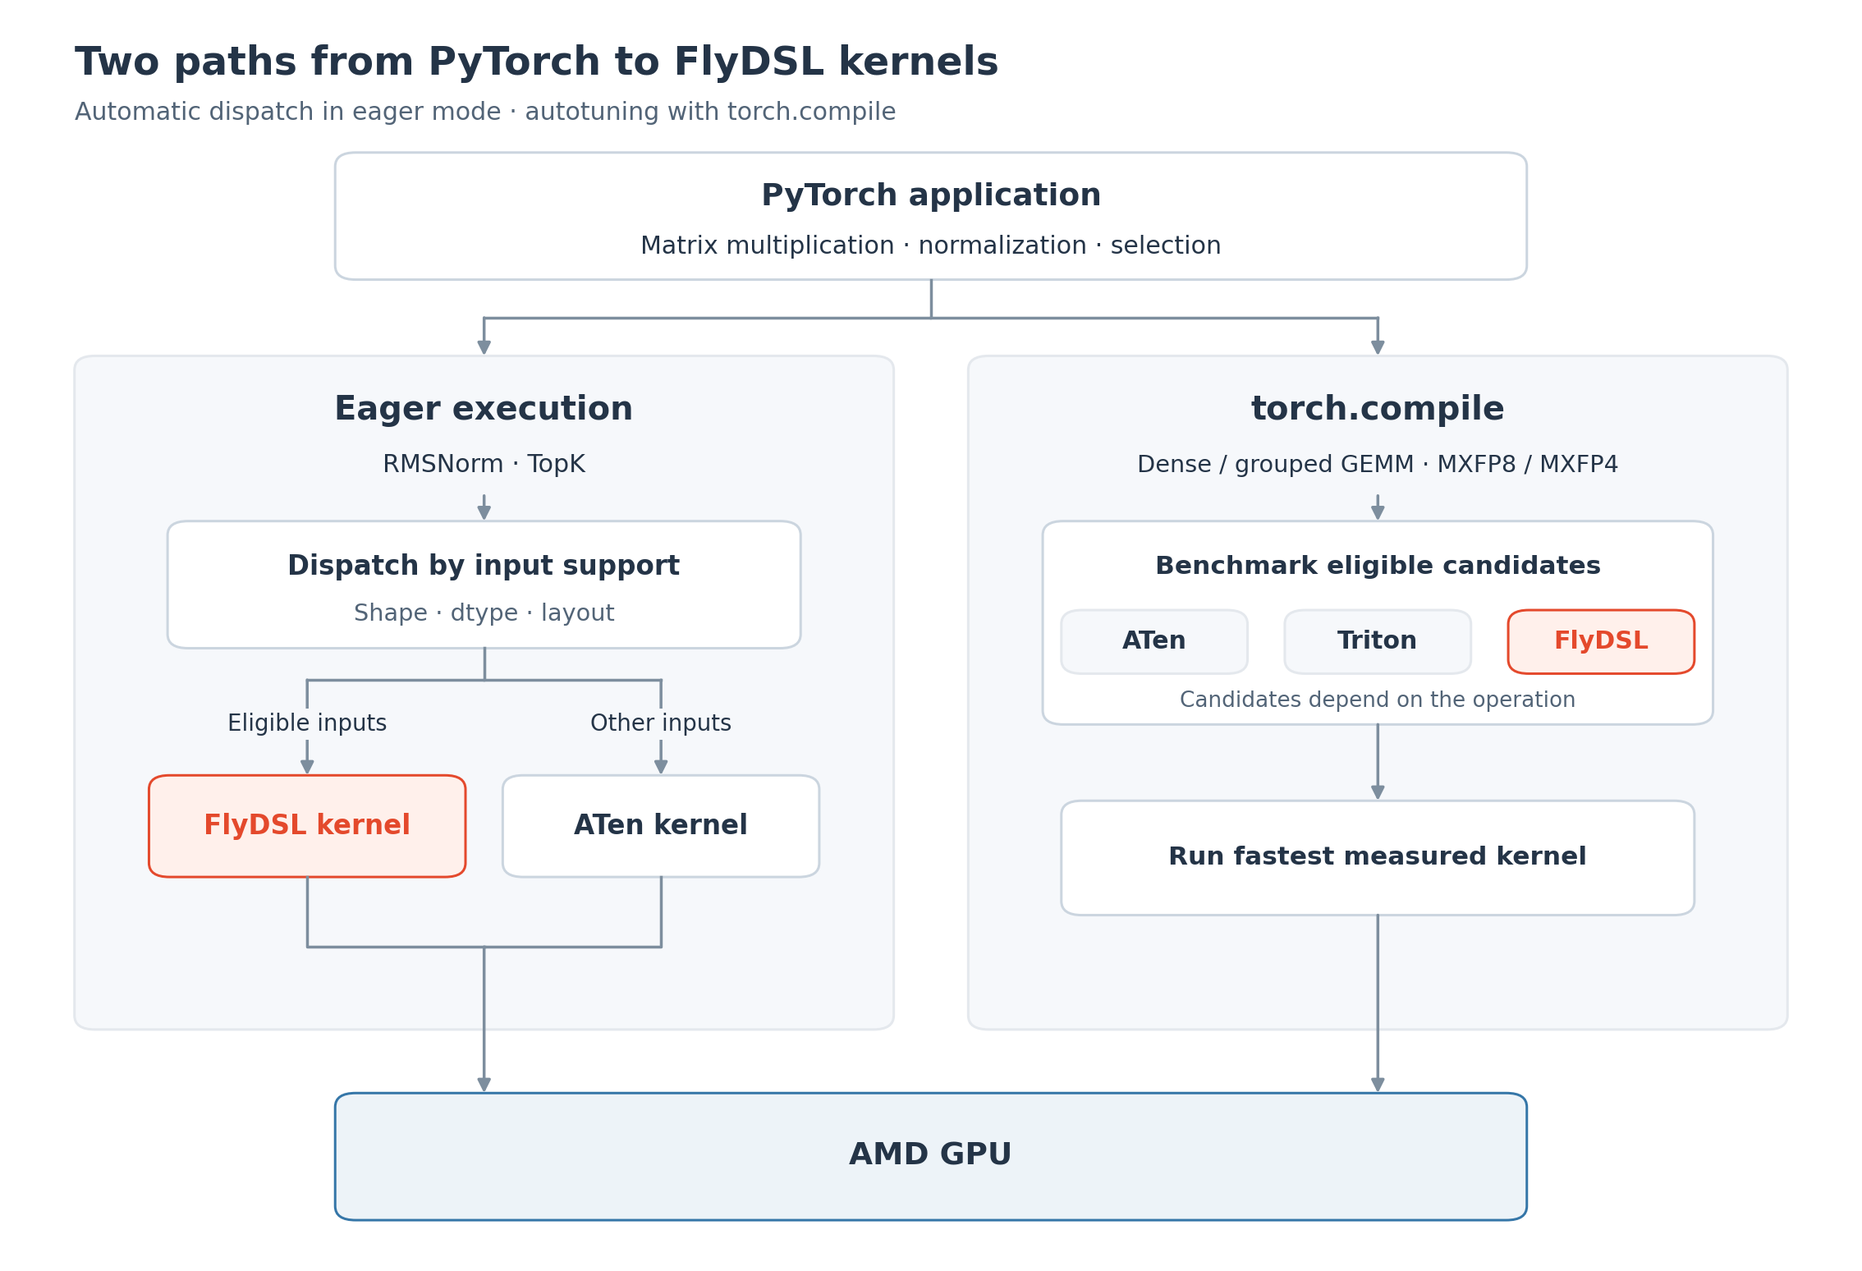
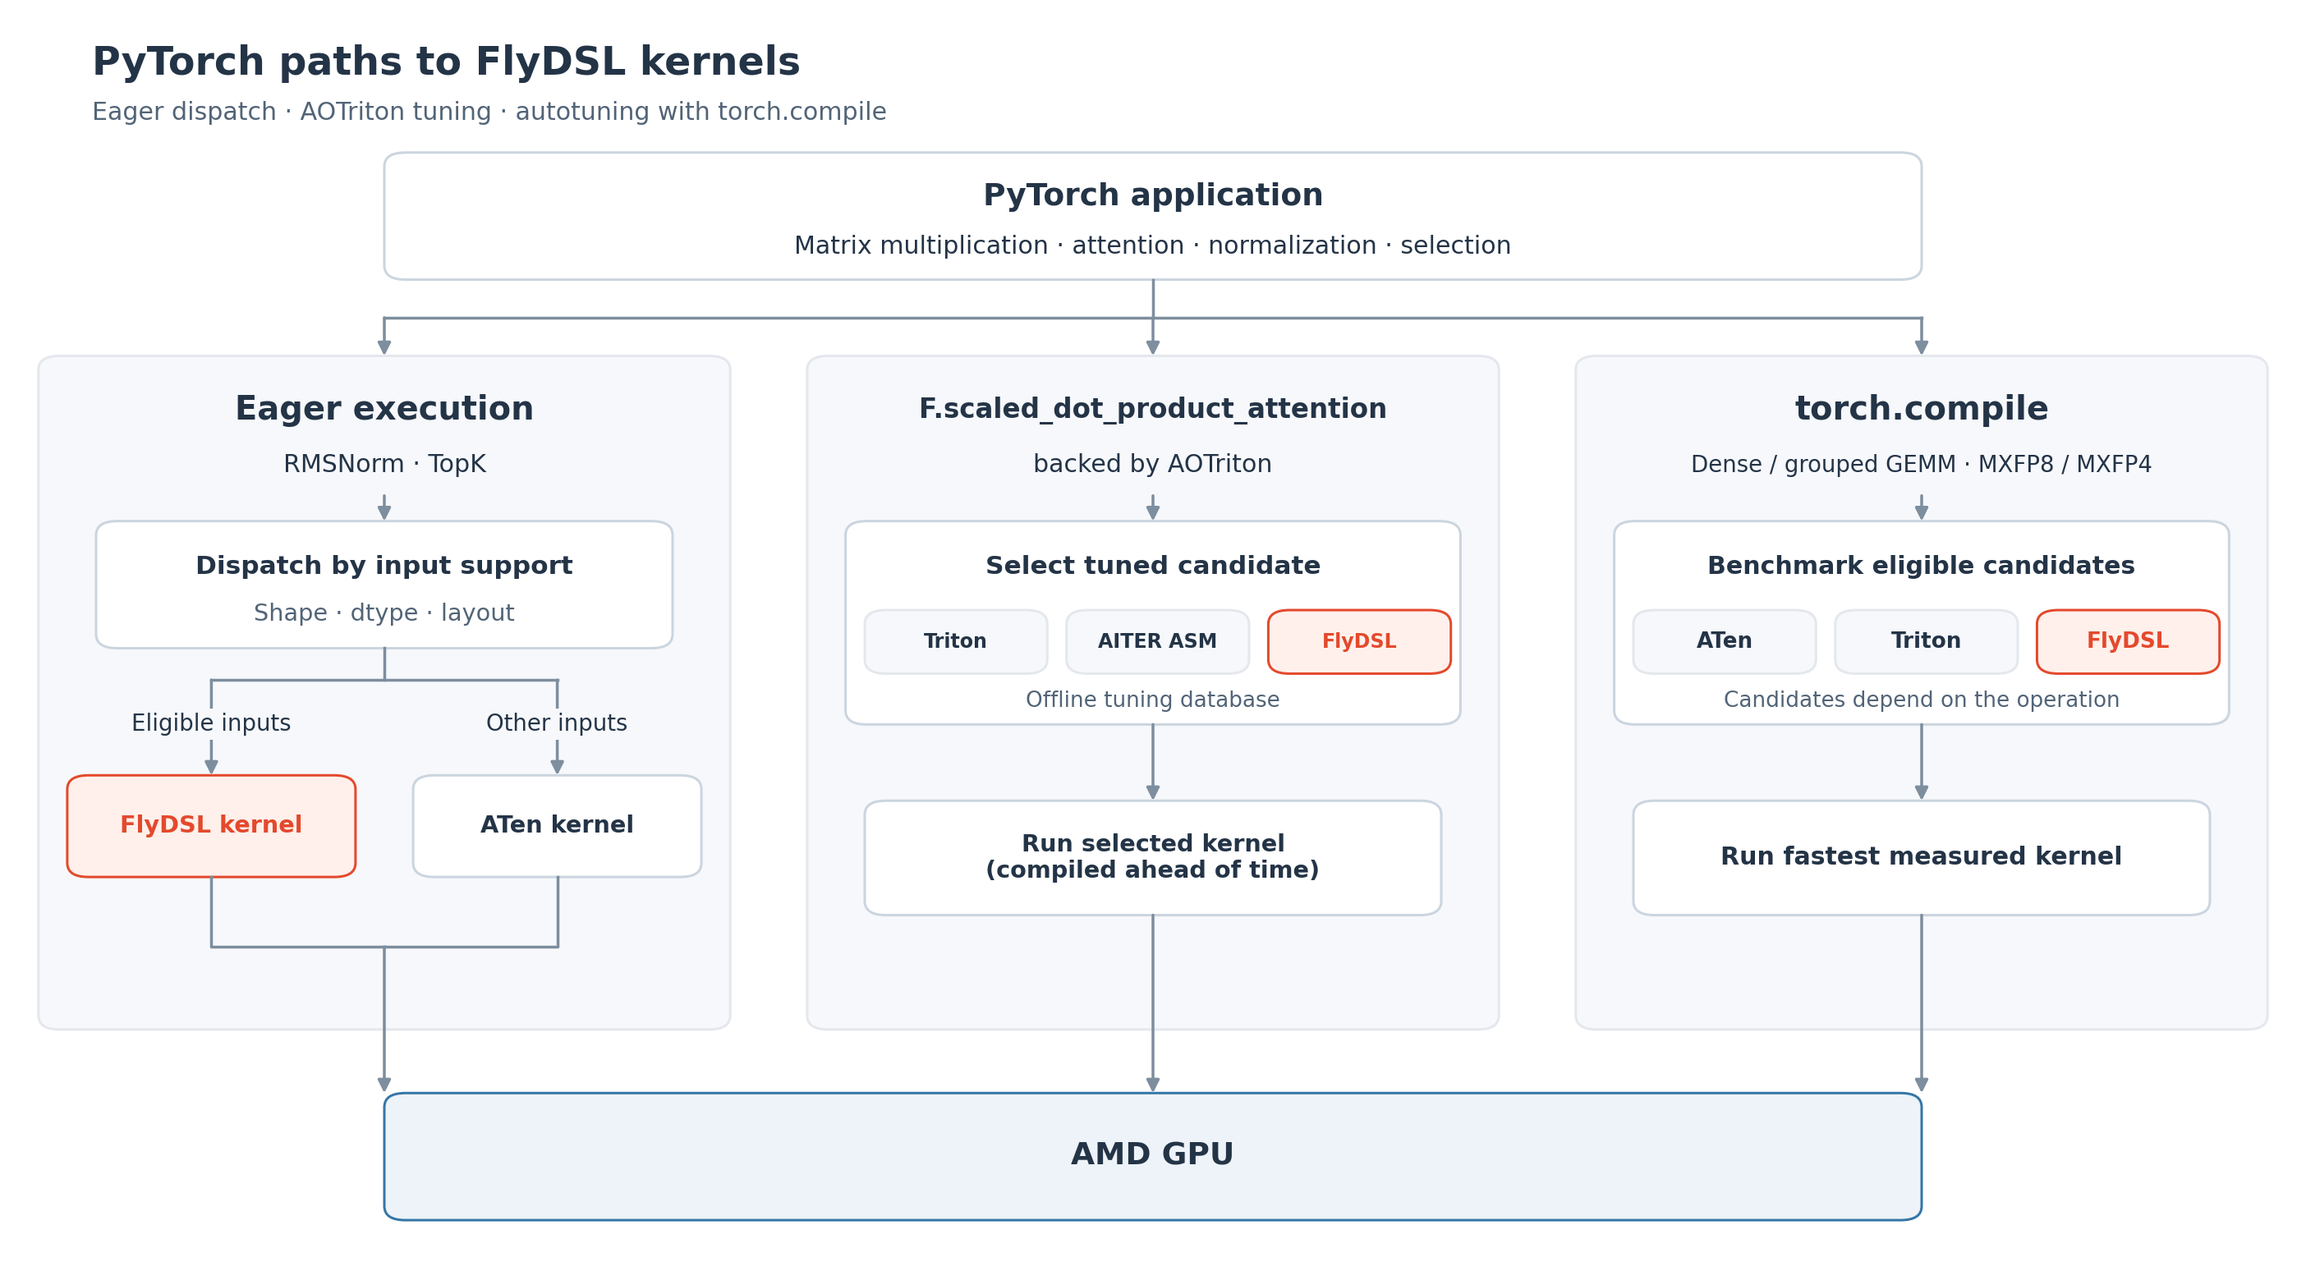
docs: add SDPA architecture and performance figures

diff --git a/docs/_static/flydsl-pytorch-backend/generate_figures.py b/docs/_static/flydsl-pytorch-backend/generate_figures.py
@@ -76,14 +76,14 @@ def save(fig, name):
 
 
 def architecture():
-    fig, ax = plt.subplots(figsize=(12.6, 8.6))
+    fig, ax = plt.subplots(figsize=(15.6, 8.6))
     fig.subplots_adjust(left=0, right=1, top=1, bottom=0)
-    ax.set(xlim=(0, 100), ylim=(0, 100))
+    ax.set(xlim=(0, 120), ylim=(0, 100))
     ax.axis("off")
     title(
         fig,
-        "Two paths from PyTorch to FlyDSL kernels",
-        "Automatic dispatch in eager mode · autotuning with torch.compile",
+        "PyTorch paths to FlyDSL kernels",
+        "Eager dispatch · AOTriton tuning · autotuning with torch.compile",
     )
 
     def box(x, y, width, height, fill="white", edge="#CBD5DF"):
@@ -132,30 +132,30 @@ def architecture():
             )
         )
 
-    box(18, 78, 64, 10)
-    label(50, 84.5, "PyTorch application", size=15, bold=True)
-    label(50, 80.6, "Matrix multiplication · normalization · selection", size=12)
+    box(20, 78, 80, 10)
+    label(60, 84.5, "PyTorch application", size=15, bold=True)
+    label(60, 80.6, "Matrix multiplication · attention · normalization · selection", size=12)
 
-    # Each mode has its own selection policy; both execute on the same GPU.
-    box(4, 19, 44, 53, fill="#F6F8FB", edge=GRID)
-    box(52, 19, 44, 53, fill="#F6F8FB", edge=GRID)
-    line([(50, 78), (50, 75), (26, 75)])
-    line([(50, 75), (74, 75)])
-    arrow((26, 75), (26, 72))
-    arrow((74, 75), (74, 72))
+    # Each path has its own selection policy; all execute on the same GPU.
+    for x in (2, 42, 82):
+        box(x, 19, 36, 53, fill="#F6F8FB", edge=GRID)
+    line([(60, 78), (60, 75), (20, 75)])
+    line([(60, 75), (100, 75)])
+    for x in (20, 60, 100):
+        arrow((x, 75), (x, 72))
 
-    label(26, 67.7, "Eager execution", size=16, bold=True)
-    label(26, 63.4, "RMSNorm · TopK", size=12)
-    arrow((26, 61), (26, 59))
-    box(9, 49, 34, 10)
-    label(26, 55.4, "Dispatch by input support", bold=True)
-    label(26, 51.7, "Shape · dtype · layout", size=11.5, color="#526477")
-    line([(26, 49), (26, 46.5), (16.5, 46.5)])
-    line([(26, 46.5), (35.5, 46.5)])
-    arrow((16.5, 46.5), (16.5, 39))
-    arrow((35.5, 46.5), (35.5, 39))
+    label(20, 67.7, "Eager execution", size=16, bold=True)
+    label(20, 63.4, "RMSNorm · TopK", size=12)
+    arrow((20, 61), (20, 59))
+    box(5, 49, 30, 10)
+    label(20, 55.4, "Dispatch by input support", size=12.5, bold=True)
+    label(20, 51.7, "Shape · dtype · layout", size=11.5, color="#526477")
+    line([(20, 49), (20, 46.5), (11, 46.5)])
+    line([(20, 46.5), (29, 46.5)])
+    arrow((11, 46.5), (11, 39))
+    arrow((29, 46.5), (29, 39))
     # Light backgrounds keep branch labels legible over the connectors.
-    for x, text in [(16.5, "Eligible inputs"), (35.5, "Other inputs")]:
+    for x, text in [(11, "Eligible inputs"), (29, "Other inputs")]:
         ax.text(
             x,
             43,
@@ -166,31 +166,46 @@ def architecture():
             bbox={"facecolor": "#F6F8FB", "edgecolor": "none", "pad": 2},
             zorder=4,
         )
-    box(8, 31, 17, 8, fill="#FFF0EB", edge=ORANGE)
-    box(27, 31, 17, 8)
-    label(16.5, 35, "FlyDSL kernel", bold=True, color=ORANGE)
-    label(35.5, 35, "ATen kernel", bold=True)
-    line([(16.5, 31), (16.5, 25.5), (26, 25.5)])
-    line([(35.5, 31), (35.5, 25.5), (26, 25.5)])
-    arrow((26, 25.5), (26, 14))
+    box(3.5, 31, 15, 8, fill="#FFF0EB", edge=ORANGE)
+    box(21.5, 31, 15, 8)
+    label(11, 35, "FlyDSL kernel", size=11.5, bold=True, color=ORANGE)
+    label(29, 35, "ATen kernel", size=11.5, bold=True)
+    line([(11, 31), (11, 25.5), (20, 25.5)])
+    line([(29, 31), (29, 25.5), (20, 25.5)])
+    arrow((20, 25.5), (20, 14))
 
-    label(74, 67.7, "torch.compile", size=16, bold=True)
-    label(74, 63.4, "Dense / grouped GEMM · MXFP8 / MXFP4", size=11.5)
-    arrow((74, 61), (74, 59))
-    box(56, 43, 36, 16)
-    label(74, 55.4, "Benchmark eligible candidates", size=12.5, bold=True)
-    for x, name in [(57, "ATen"), (69, "Triton"), (81, "FlyDSL")]:
+    label(60, 67.7, "F.scaled_dot_product_attention", size=13, bold=True)
+    label(60, 63.4, "backed by AOTriton", size=12)
+    arrow((60, 61), (60, 59))
+    box(44, 43, 32, 16)
+    label(60, 55.4, "Select tuned candidate", size=12.5, bold=True)
+    for x, name in [(45, "Triton"), (55.5, "AITER ASM"), (66, "FlyDSL")]:
         flydsl = name == "FlyDSL"
-        box(x, 47, 10, 5, fill="#FFF0EB" if flydsl else "#F6F8FB", edge=ORANGE if flydsl else GRID)
-        label(x + 5, 49.5, name, size=12, bold=True, color=ORANGE if flydsl else INK)
-    label(74, 44.8, "Candidates depend on the operation", size=10.5, color="#526477")
-    arrow((74, 43), (74, 37))
-    box(57, 28, 34, 9)
-    label(74, 32.5, "Run fastest measured kernel", size=12.5, bold=True)
-    arrow((74, 28), (74, 14))
+        box(x, 47, 9.5, 5, fill="#FFF0EB" if flydsl else "#F6F8FB", edge=ORANGE if flydsl else GRID)
+        label(x + 4.75, 49.5, name, size=9.5, bold=True, color=ORANGE if flydsl else INK)
+    label(60, 44.8, "Offline tuning database", size=10.5, color="#526477")
+    arrow((60, 43), (60, 37))
+    box(45, 28, 30, 9)
+    label(60, 32.5, "Run selected kernel\n(compiled ahead of time)", size=11.5, bold=True)
+    arrow((60, 28), (60, 14))
 
-    box(18, 4, 64, 10, fill="#EDF3F8", edge=BLUE)
-    label(50, 9, "AMD GPU", size=15, bold=True)
+    label(100, 67.7, "torch.compile", size=16, bold=True)
+    label(100, 63.4, "Dense / grouped GEMM · MXFP8 / MXFP4", size=11)
+    arrow((100, 61), (100, 59))
+    box(84, 43, 32, 16)
+    label(100, 55.4, "Benchmark eligible candidates", size=12, bold=True)
+    for x, name in [(85, "ATen"), (95.5, "Triton"), (106, "FlyDSL")]:
+        flydsl = name == "FlyDSL"
+        box(x, 47, 9.5, 5, fill="#FFF0EB" if flydsl else "#F6F8FB", edge=ORANGE if flydsl else GRID)
+        label(x + 4.75, 49.5, name, size=10.5, bold=True, color=ORANGE if flydsl else INK)
+    label(100, 44.8, "Candidates depend on the operation", size=10.5, color="#526477")
+    arrow((100, 43), (100, 37))
+    box(85, 28, 30, 9)
+    label(100, 32.5, "Run fastest measured kernel", size=12, bold=True)
+    arrow((100, 28), (100, 14))
+
+    box(20, 4, 80, 10, fill="#EDF3F8", edge=BLUE)
+    label(60, 9, "AMD GPU", size=15, bold=True)
     save(fig, "flydsl-pytorch-integration")
 
 
@@ -659,6 +674,52 @@ def topk():
     save(fig, "flydsl-topk-results")
 
 
+def attention():
+    data = rows("attention.csv")
+    fig, axes = plt.subplots(1, 2, figsize=(12.6, 8.0), sharey=True)
+    fig.subplots_adjust(left=0.13, right=0.97, top=0.79, bottom=0.14, wspace=0.20)
+    title(
+        fig,
+        "AOTriton SDPA: performance by head dimension",
+        "gfx950 · AOTriton 0.14.2b vs 0.13b · throughput speedup · head dimension 384 omitted",
+    )
+    y = np.arange(len(data))
+    handles = [
+        Patch(color=ORANGE, label="Non-causal"),
+        Patch(color=BLUE, label="Causal"),
+    ]
+    for ax, direction, heading in zip(axes, ["fwd", "bwd"], ["Forward", "Backward"]):
+        for causal, color, offset in [
+            ("noncausal", ORANGE, -0.17),
+            ("causal", BLUE, 0.17),
+        ]:
+            values = [
+                float(r[f"{direction}_{causal}_0142b"]) / float(r[f"{direction}_{causal}_013"])
+                for r in data
+            ]
+            ax.barh(y + offset, values, height=0.30, color=color)
+            for yy, value in zip(y + offset, values):
+                ax.text(max(value, 1) + 0.035, yy, f"{value:.2f}×", va="center", fontsize=9.5)
+            print(
+                f"Attention {direction} {causal}: "
+                f"range={min(values):.4f}–{max(values):.4f}"
+            )
+        ax.set_yticks(y, [r["head_dim"] for r in data], fontsize=10.5)
+        ax.set_ylim(len(data) - 0.55, -0.55)
+        style(ax, 2.75, [0, 0.5, 1, 1.5, 2, 2.5])
+        ax.set_xlabel("AOTriton release-to-release speedup", labelpad=10)
+        ax.set_title(heading, fontsize=14, fontweight="bold", loc="left", pad=14)
+    axes[0].set_ylabel("Head dimension", labelpad=10)
+    fig.legend(handles=handles, loc="upper right", bbox_to_anchor=(0.96, 0.86), frameon=False, ncol=2)
+    fig.text(
+        0.04,
+        0.030,
+        "Each bar uses the two published values for that head dimension · dashed line = AOTriton 0.13b",
+        fontsize=10.5,
+    )
+    save(fig, "flydsl-attention-results")
+
+
 def vllm_e2e():
     data = rows("vllm_e2e.csv")
     models = [
@@ -738,4 +799,5 @@ if __name__ == "__main__":
     grouped_gemm()
     rmsnorm()
     topk()
+    attention()
     vllm_e2e()

diff --git a/docs/pytorch_flydsl_backend_blog.md b/docs/pytorch_flydsl_backend_blog.md
@@ -62,15 +62,11 @@ Unsupported workloads retain existing implementations:
   FlyDSL, Triton, and AITER ASM kernels for each workload using its offline
   operator-tuning database.
 
-![PyTorch APIs feed two execution paths: eager dispatch chooses FlyDSL for eligible RMSNorm and TopK inputs or ATen otherwise; torch.compile benchmarks eligible implementations of dense, grouped, and MXFP8/MXFP4 scaled GEMM and runs the fastest on an AMD GPU.](_static/flydsl-pytorch-backend/flydsl-pytorch-integration.png)
+![PyTorch APIs feed three execution paths: eager dispatch chooses FlyDSL for eligible RMSNorm and TopK inputs or ATen otherwise; scaled dot product attention uses AOTriton to select Triton, AITER ASM, or FlyDSL from its tuning database; torch.compile benchmarks eligible dense, grouped, and MXFP8/MXFP4 GEMM implementations. The selected kernels run on an AMD GPU.](_static/flydsl-pytorch-backend/flydsl-pytorch-integration.png)
 
-*Figure 1. FlyDSL in PyTorch, with the optional package installed and FlyDSL
-enabled for GEMM autotuning. Eager execution dispatches by input support;
-TorchInductor selects by measured performance, with candidates depending on the
-operation. Both paths use PyTorch operator APIs.*
-
-*sdpa placeholder: Figure 1 to gain a third path, SDPA → AOTriton → FlyDSL /
-Triton / AITER ASM, selected by AOTriton's operator-tuning database.*
+*Figure 1. FlyDSL kernels reached through PyTorch APIs. Eager RMSNorm and TopK
+dispatch by input support; AOTriton selects a tuned SDPA implementation; and
+TorchInductor benchmarks eligible GEMM candidates.*
 
 ## Supported Features
 
@@ -367,19 +363,18 @@ in both orientations, which keeps head dimension 512 within LDS.
 *sdpa placeholder: attention scheduling figure (dual-wave pipeline; wide-head D
 staging and output sharding).*
 
-*sdpa* We measured SDPA in PyTorch with FP16 inputs, batch 4, and 48 heads,
-over 100 combinations of head dimension, sequence length, causal masking, and
-direction. Compared with AOTriton 0.13.50, AOTriton 0.14.2b reaches a **1.41x
-geometric-mean speedup for forward, 1.46x for backward, and 1.44x overall**.
-Causal forward improves at every head dimension from 32 to 256 (+8% to +88%),
-and non-causal backward improves by 78%–117% at head dimensions 96 and
-160–256. The comparison is between library releases, so it also
-includes AOTriton's Triton retuning and a different PyTorch build; it is not an
-isolated FlyDSL-versus-Triton measurement.
+*sdpa* The [AOTriton 0.14.2b
+release](https://github.com/ROCm/aotriton/releases/tag/0.14.2b) publishes
+throughput for AOTriton 0.13b and 0.14.2b by head dimension, direction, and
+causal mode. For the `gfx950` aggregates shown below, forward speedup ranges
+from **0.92x to 2.34x** and backward speedup from **0.93x to 2.47x**.
 
-*sdpa placeholder: attention forward/backward results figure on MI355X,
-AOTriton 0.14.2b versus 0.13.50, with a caption stating the shape suite and
-aggregation.*
+![AOTriton SDPA forward and backward throughput speedup on gfx950, grouped by head dimension and causal mode](_static/flydsl-pytorch-backend/flydsl-attention-results.png)
+
+*Figure 12. AOTriton 0.14.2b versus 0.13b on `gfx950`, using the published
+throughput aggregates for each head dimension; head dimension 384 is omitted.
+This release-to-release comparison also includes updated Triton, AITER, and
+tuning databases, so it is not an isolated FlyDSL-versus-Triton measurement.*
 
 ## End-to-End vLLM Inference
 
@@ -398,7 +393,7 @@ ABBA-interleaved repetitions.
 
 ![BF16 vLLM whole-request speedup across three models and six concurrency levels](_static/flydsl-pytorch-backend/flydsl-vllm-bf16-results.png)
 
-*Figure 12. BF16 whole-request speedup on one MI355X. The baseline enables ATen
+*Figure 13. BF16 whole-request speedup on one MI355X. The baseline enables ATen
 and Triton; the treatment adds FlyDSL. Values above 1x favor FlyDSL.*
 
 **MXFP8 A8W8.** With ATen (hipBLASLt) as the baseline, FlyDSL improves all 18
@@ -407,7 +402,7 @@ model-concurrency combinations: **1.40x–2.03x** for Qwen3-32B,
 
 ![MXFP8 A8W8 vLLM whole-request speedup across three models and six concurrency levels](_static/flydsl-pytorch-backend/flydsl-vllm-mxfp8-results.png)
 
-*Figure 13. MXFP8 A8W8 whole-request speedup on one MI355X. The baseline is
+*Figure 14. MXFP8 A8W8 whole-request speedup on one MI355X. The baseline is
 ATen; the treatment adds FlyDSL. Values above 1x favor FlyDSL.*
 
 **MXFP4 A4W4.** With `lm_head` left unquantized, all 18 combinations also
@@ -418,7 +413,7 @@ variance-qualified results.
 
 ![MXFP4 A4W4 vLLM whole-request speedup across three models and six concurrency levels](_static/flydsl-pytorch-backend/flydsl-vllm-mxfp4-results.png)
 
-*Figure 14. MXFP4 A4W4 whole-request speedup on one MI355X. The baseline is
+*Figure 15. MXFP4 A4W4 whole-request speedup on one MI355X. The baseline is
 ATen; the treatment adds FlyDSL. Values above 1x favor FlyDSL.*
 
 ## Try It in PyTorch

diff --git a/docs/_static/flydsl-pytorch-backend/README.md b/docs/_static/flydsl-pytorch-backend/README.md
@@ -1,7 +1,7 @@
 # PyTorch FlyDSL blog figures and benchmark data
 
 This directory contains the architecture overview, five operator-specific
-scheduling diagrams, five operator-performance figures, and three end-to-end
+scheduling diagrams, six operator-performance figures, and three end-to-end
 vLLM figures for [the blog](../../pytorch_flydsl_backend_blog.md), along with
 their source data and rendering material. Regenerating the figures does not run
 a benchmark.
@@ -24,13 +24,15 @@ published MXFP benchmark shapes satisfy the current requirements.
 
 ## Architecture overview
 
-The diagram follows an application through two execution modes on an AMD GPU
+The diagram follows an application through three execution paths on an AMD GPU
 and intentionally leaves hardware support gates to the article's feature table.
-It assumes the optional FlyDSL package is installed and the compiled GEMM path
-has FlyDSL and autotuning enabled:
+The eager and compiled GEMM paths assume that the optional FlyDSL package is
+installed and that compiled GEMMs have FlyDSL and autotuning enabled:
 
 - Eager RMSNorm and TopK dispatch to FlyDSL for eligible inputs and retain ATen
   for unsupported inputs.
+- PyTorch SDPA reaches AOTriton, whose offline tuning database selects among
+  FlyDSL, Triton, and AITER ASM implementations.
 - TorchInductor selects the fastest measured eligible implementation. Dense and
   grouped GEMM can use enabled ATen, Triton, and FlyDSL candidates; MXFP scaled
   GEMM benchmarks all eligible candidates, including ATen where supported.
@@ -54,6 +56,7 @@ performance.
 | [grouped_gemm.csv](grouped_gemm.csv) | 24 | [Grouped GEMM PR](https://github.com/pytorch/pytorch/pull/194032) | BF16 on `gfx950`; 14 uniform-group shapes, five K/N variants at `G=8, M=512`, and five ragged-M cases at `G=8, K=N=4096`; isolated process and fresh cache per backend/shape; steady-state TFLOP/s; output checked against eager |
 | [rmsnorm.csv](rmsnorm.csv) | 22 | [RMSNorm PR](https://github.com/pytorch/pytorch/pull/191447) | FP16/BF16/FP32 on MI355X; FlyDSL 0.3.0; GPU events, 10 warmup and 50 timed iterations; one run per case |
 | [topk.csv](topk.csv) | 33 | [TopK PR](https://github.com/pytorch/pytorch/pull/193548) | FP32 on MI355X; GPU events, 20 warmup and 100 timed iterations; median of three runs for each determinism setting |
+| [attention.csv](attention.csv) | 48 aggregates | [AOTriton 0.14.2b release](https://github.com/ROCm/aotriton/releases/tag/0.14.2b) | `gfx950`; AOTriton 0.14.2b versus 0.13b; forward/backward and causal/non-causal throughput grouped by head dimension; head dimension 384 omitted |
 | [vllm_e2e.csv](vllm_e2e.csv) | 18 each for BF16/MXFP8/MXFP4 | Local vLLM A/B run | `vllm bench serve` on one MI355X; three models; concurrency 8–256; ISL 256, OSL 512; TP=1; fixed per-model KV cache |
 
 The suites are separate experiments, not a single run under one common software
@@ -107,6 +110,11 @@ each value `p` to `1 + p / 100` for the publication's speedup-ratio convention.
 - MXFP panels show all 17 shapes per format on the same scale. The geometric
   means are 1.5755x versus ATen for MXFP8 and 1.6804x for MXFP4. These NT
   measurements do not establish performance for NN, TN, or TT layouts.
+- Attention speedup is the published AOTriton 0.14.2b throughput divided by
+  the corresponding 0.13b value. The chart includes only `gfx950`, omits head
+  dimension 384, and does not show a geometric mean because the release-level
+  means aggregate a larger underlying case set than the per-head-dimension
+  values.
 - Chart axes start at zero. A dashed line at `1.0x` identifies the baseline.
 
 Calculations use the published latency/throughput columns rather than their
@@ -134,9 +142,9 @@ python3 docs/_static/flydsl-pytorch-backend/generate_figures.py
 
 The script writes PNG versions of the architecture overview, each
 operator-specific scheduling diagram, and the dense GEMM, MXFP scaled GEMM,
-grouped GEMM, RMSNorm, TopK, and end-to-end vLLM performance charts. It also
-prints the calculated performance aggregates. Set `FLYDSL_BLOG_WRITE_SVG=1` to
-also generate editable SVGs locally.
+grouped GEMM, RMSNorm, TopK, Attention, and end-to-end vLLM performance charts.
+It also prints the calculated performance aggregates. Set
+`FLYDSL_BLOG_WRITE_SVG=1` to also generate editable SVGs locally.
 
 The current `flydsl-mxfp-gemm-results` figure is generated from the 34
 measurements published on PR #196719.
